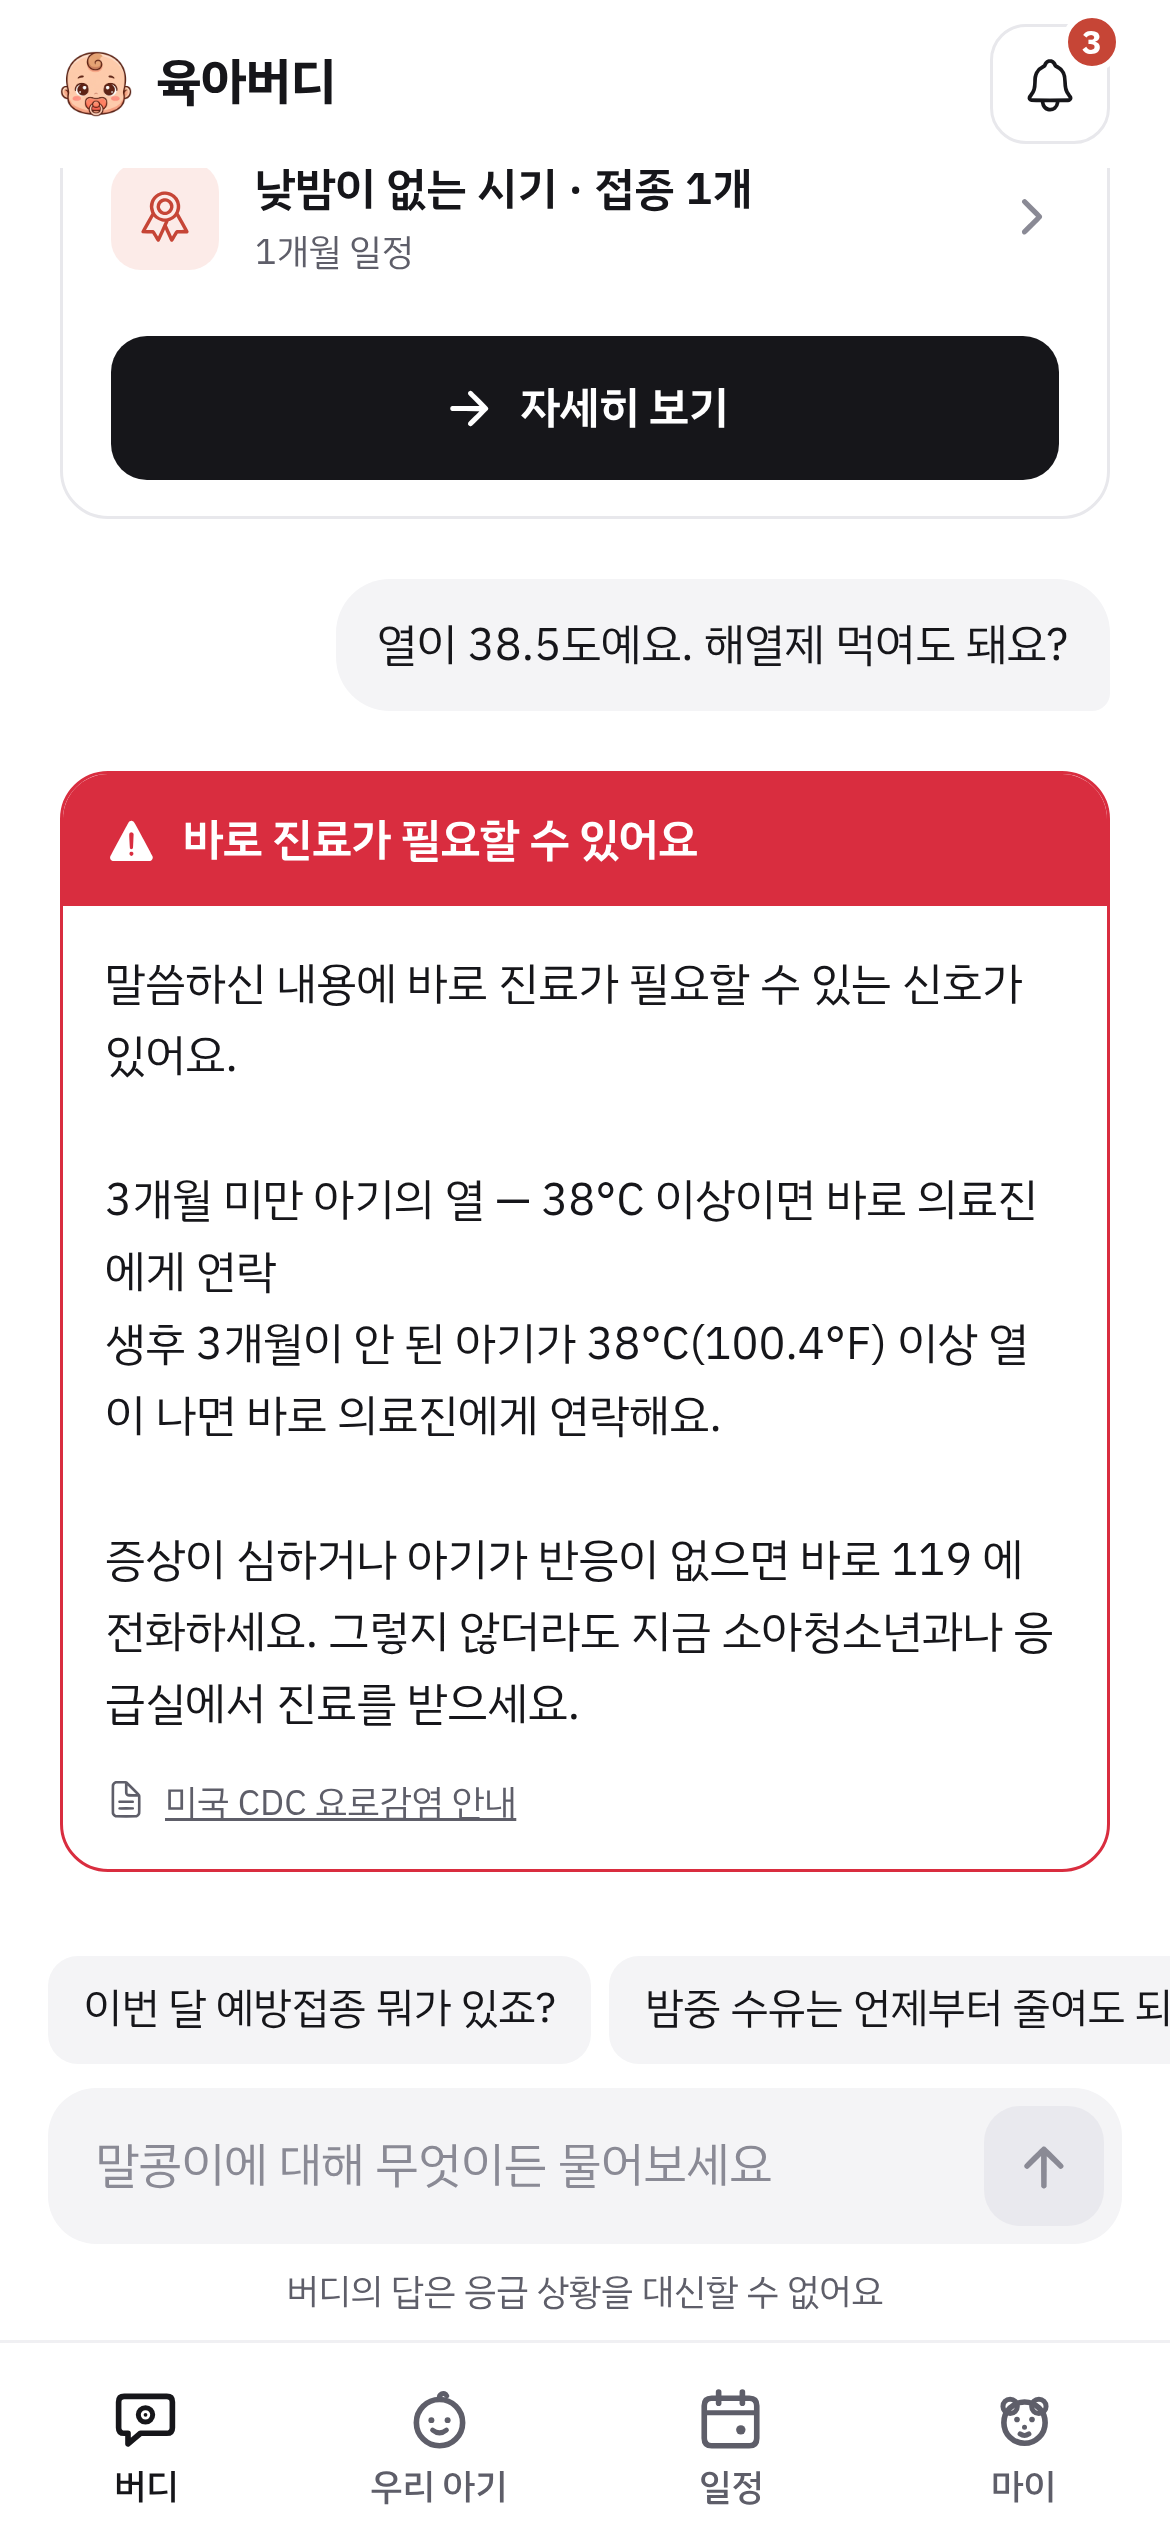
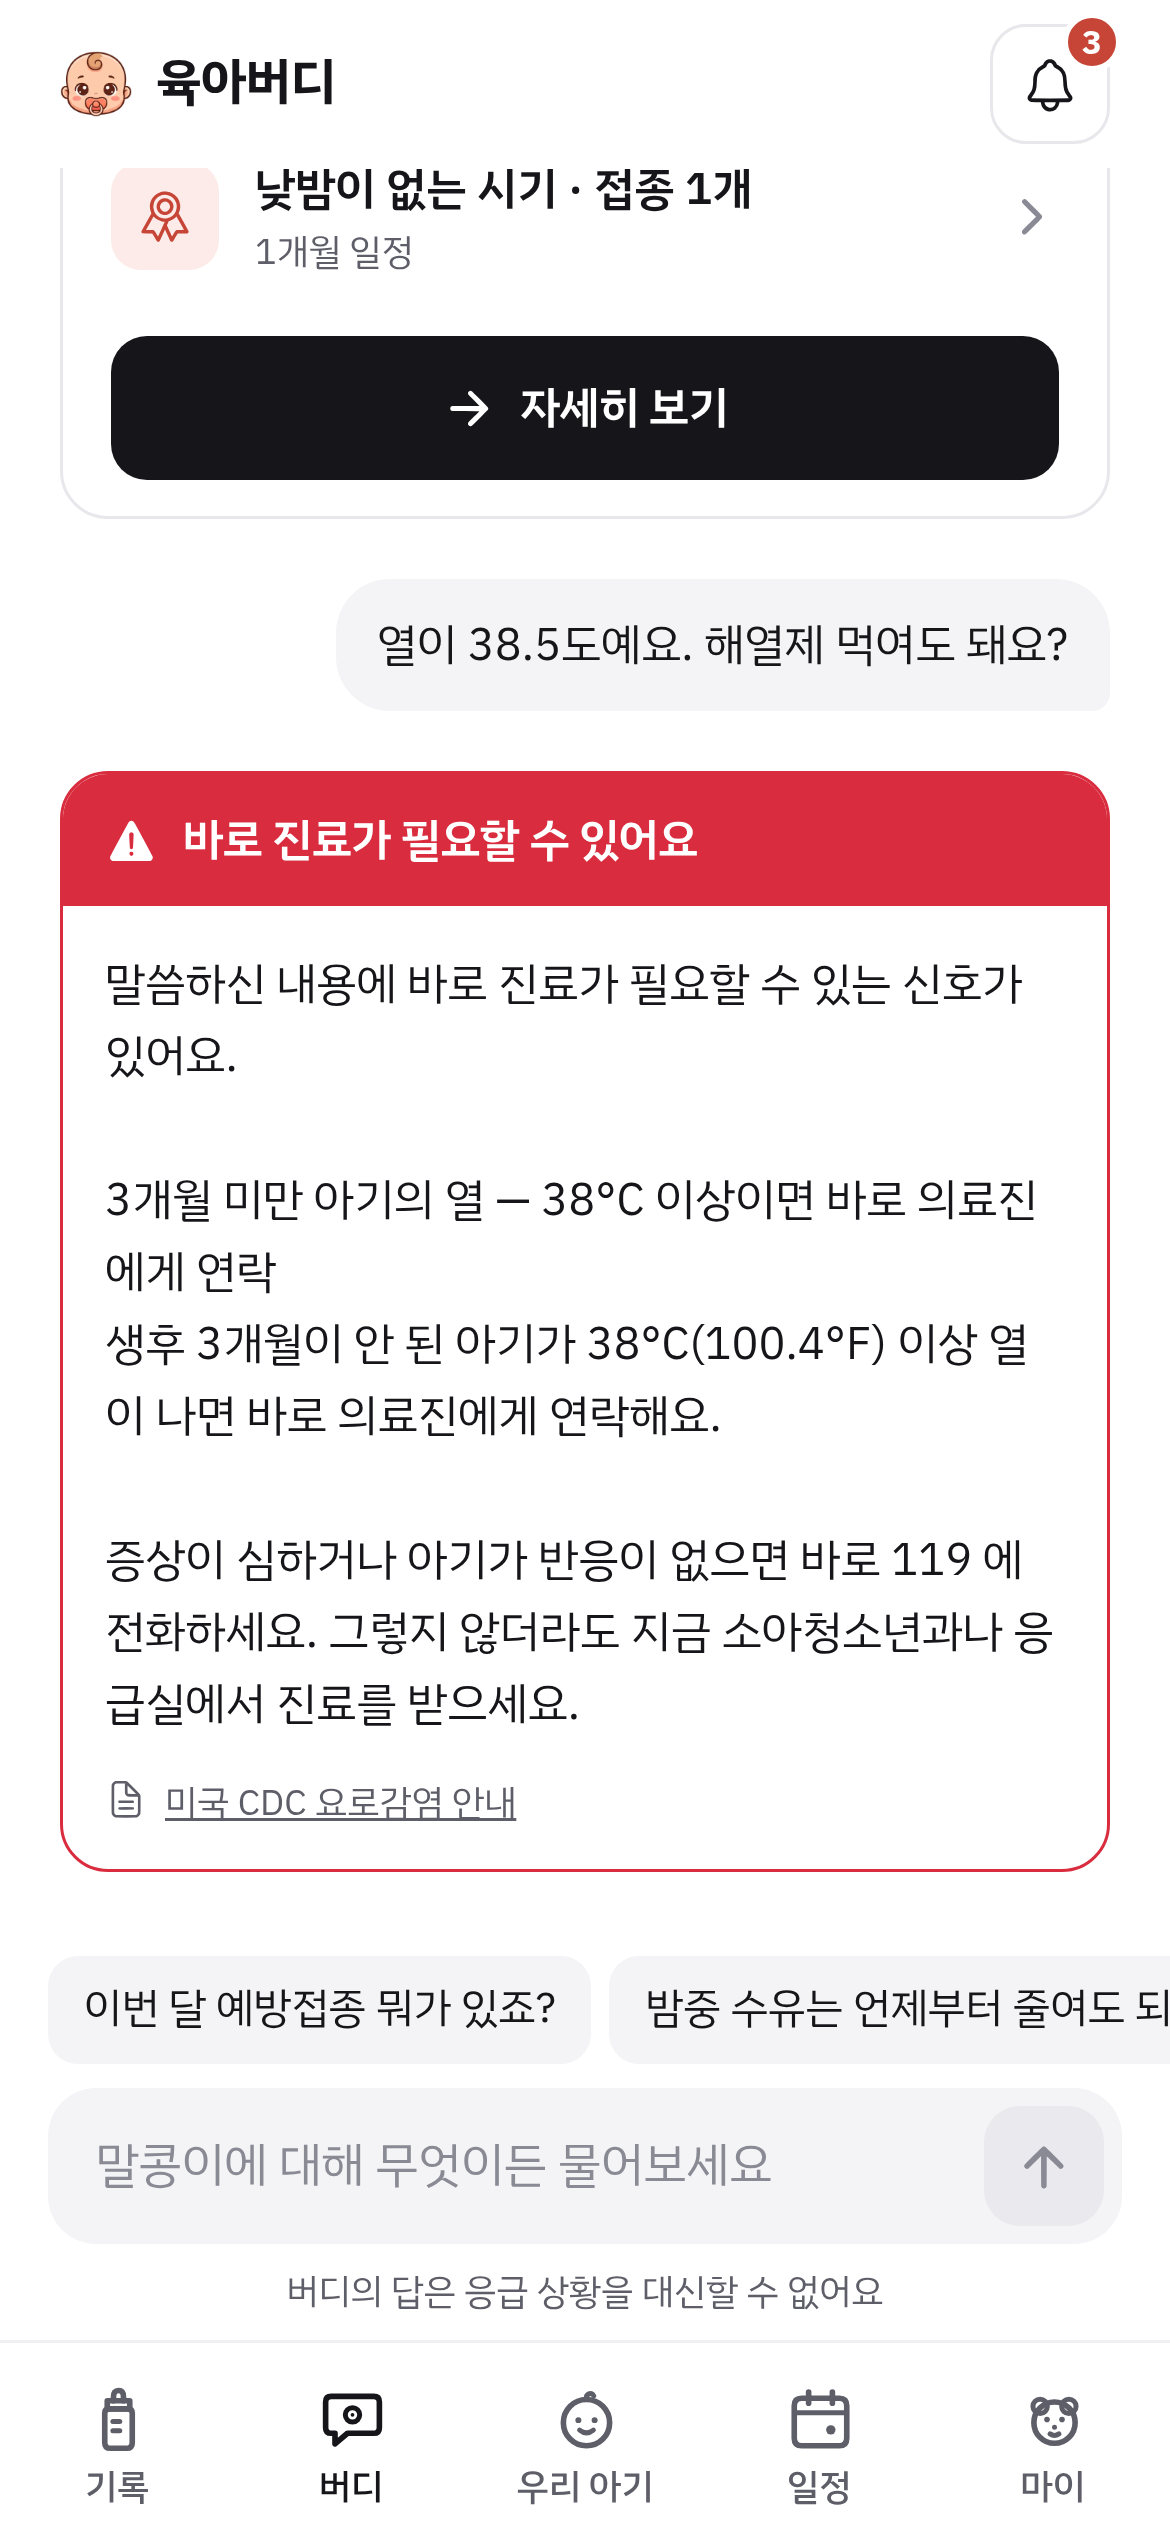
feat: 스토어 스크린샷에 기록 탭 장(02-log)을 더하고 전 장을 탭 다섯 화면으로 다시 찍음 (task log/001 · common/021)

diff --git a/marketing/store/store.html b/marketing/store/store.html
@@ -11,7 +11,7 @@
       /*
        * 스토어 2~6장 — 문구 한 줄 + 진짜 앱 화면(docs/product/store-toon.md 「스토어 스크린샷」, task common/021).
        * 첫 장(answer-flow.html)과 같은 디자인 언어: 밝은 바탕 · 먹색 · 코랄 하나 · IBM Plex Sans KR. 만화 캐릭터는 넣지 않는다(Julian, 2026-10-12).
-       * ?p=briefing|sources|redflag|schedule|baby, ?v=ios(1290×2796) | play(1290×2293 을 0.8372 배로 → 1080×1920)
+       * ?p=log|briefing|sources|redflag|schedule|baby, ?v=ios(1290×2796) | play(1290×2293 을 0.8372 배로 → 1080×1920)
        */
       :root { --ink: #16161a; --sub: #5e5e69; --mute: #8a8a95; --line: #dedee4; --accent: #c64536; --accentSoft: #fcebe8; }
       html, body { margin: 0; background: #f6f5f2; }
@@ -48,6 +48,7 @@
        * ring 은 앱 화면 좌표 [x, y, w, h] 의 코랄 테
        */
       const PAGES = {
+        log: { title: '누르면 <em>기록</em>,<br>버디가 읽어 줘요', shot: 'log', ring: [52, 290, 1066, 462] },
         briefing: { title: '어제 일까지 <em>기억하는</em><br>육아 비서', shot: 'briefing', ring: [52, 536, 1066, 664] },
         sources: { title: '공공 기관 <em>출처</em>가 있으면<br>함께 보여 줘요', shot: 'vaccine4', ring: [44, 1592, 690, 200] },
         redflag: { title: '위험할 땐 답 대신<br><em>병원 안내</em>', shot: 'redflag' },

diff --git a/marketing/store/answer-flow.html b/marketing/store/answer-flow.html
@@ -114,13 +114,13 @@
         <div class="foot">승인 항목만 · 항목마다 출처</div></div>`);
       put(`<div class="layer" style="left:44px;top:640px;width:400px;height:462px">
         <div><span class="chip mono" style="background:var(--ink);color:#fff">L2</span><span class="t">우리 아기</span></div>
-        <ul><li>대화에서 쌓인 기록</li><li>되묻기에 답한 것</li></ul>
+        <ul><li>기록 탭의 수유 · 잠 · 기저귀</li><li>대화에서 알려 준 사실</li></ul>
         <div class="know">
           <div class="row"><span>버디가 아는 정도</span><b>꽤 잘 알아요</b></div>
           <div class="bar">${[1, 1, 1, 0, 0].map((on) => `<i class="${on ? 'on' : ''}"></i>`).join('')}</div>
           <div class="hint">쌓일수록 우리 아기에게 맞춘 답</div>
         </div>
-        <div class="foot">이 기기에만 저장</div></div>`);
+        <div class="foot">폰에 저장 · 가족 공유는 선택</div></div>`);
 
       // 파이프라인 — 서버 /v1/ask 의 순서
       const N = [

diff --git a/docs/product/store-toon.md b/docs/product/store-toon.md
@@ -64,17 +64,18 @@
 
 ## 스토어 스크린샷 5장
 
-> 상태: 여섯 장 다 됐다(2026-10-12, task common/021). 만화 아빠는 넣지 않는다(Julian, 같은 날 — 처음 판에 얹었다가 뺐다) — `marketing/store/out/01-flow · 02-briefing · 03-sources · 04-redflag · 05-schedule · 06-baby`,
+> 상태: 여섯 장 다 됐다(2026-10-12, task common/021). 만화 아빠는 넣지 않는다(Julian, 같은 날 — 처음 판에 얹었다가 뺐다) — `marketing/store/out/01-flow · 02-log · 03-briefing · 04-sources · 05-redflag · 06-schedule · 07-baby`(기록 탭이 첫 화면이 되며 02-log 를 더했다, decisions/023),
 > 각각 `-ios.png`(1290×2796) · `-play.png`(1080×1920). 구글 플레이 그래픽 이미지는 `out/feature.png`(1024×500)
 
 | 파일 | 앱 화면 | 문구 |
 |---|---|---|
 | 01-flow | **답을 만드는 과정 + 진짜 답 화면**(아래) | 검색 대신, 근거로 답해요 |
-| 02-briefing | 아침 안부 브리핑 | 어제 일까지 기억하는 육아 비서 |
-| 03-sources | 답과 출처 줄(접종 질문) | 공공 기관 출처가 있으면 함께 보여 줘요 |
-| 04-redflag | 위험 신호 안내 | 위험할 땐 답 대신 병원 안내 |
-| 05-schedule | 일정 탭 달력 | 접종 · 검진 날짜가 달력에 |
-| 06-baby | 우리 아기 탭 | 대화할수록 우리 아기를 더 잘 알아요 |
+| 02-log | 기록 탭 — 마지막 수유 · 오늘 합계와 평소 · 기록 단추 · 오늘 기록(일주일치 지어낸 기록) | 누르면 기록, 버디가 읽어 줘요 |
+| 03-briefing | 아침 안부 브리핑 | 어제 일까지 기억하는 육아 비서 |
+| 04-sources | 답과 출처 줄(접종 질문) | 공공 기관 출처가 있으면 함께 보여 줘요 |
+| 05-redflag | 위험 신호 안내 | 위험할 땐 답 대신 병원 안내 |
+| 06-schedule | 일정 탭 달력 | 접종 · 검진 날짜가 달력에 |
+| 07-baby | 우리 아기 탭 | 대화할수록 우리 아기를 더 잘 알아요 |
 
 ### 첫 장 — 「검색 대신, 근거로 답해요」 (`marketing/store/`)
 
